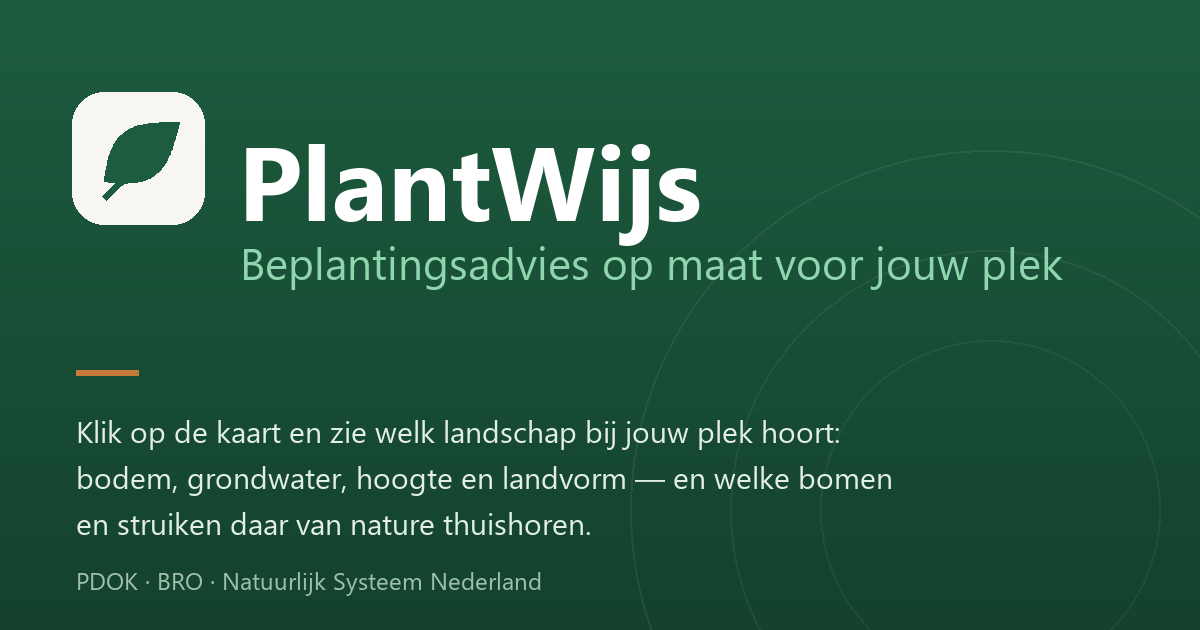
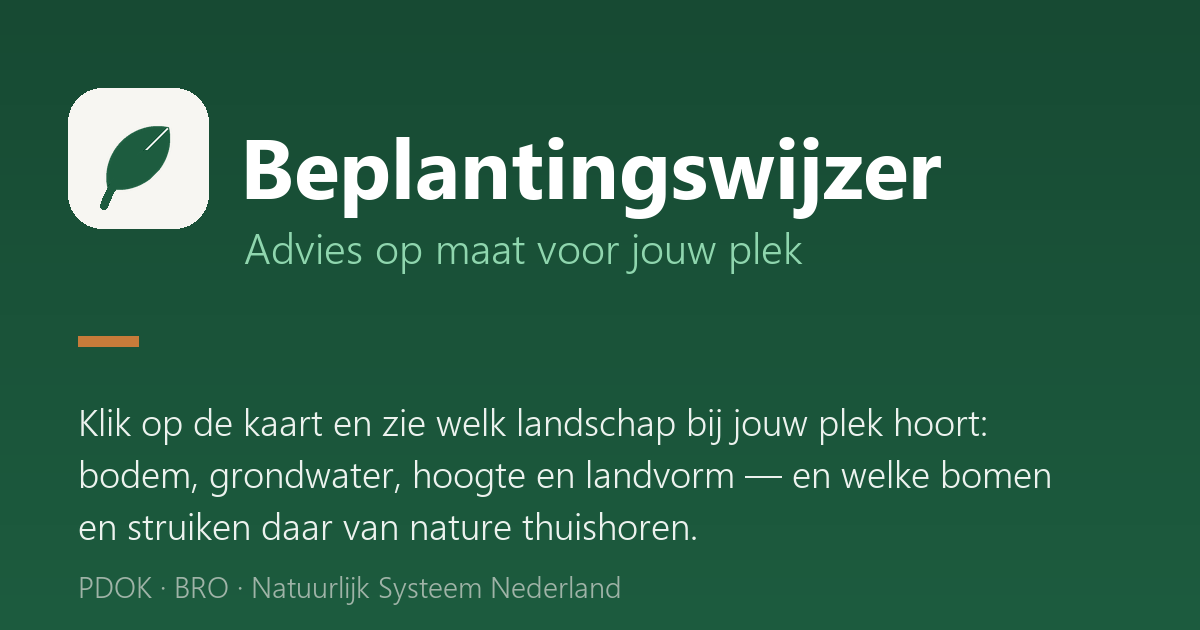
Livegang: og-image in Beplantingswijzer-huisstijl + stap-voor-stap livegang-checklist

diff --git a/docs/LIVEGANG.md b/docs/LIVEGANG.md
@@ -1,0 +1,59 @@
+# Beplantingswijzer — Livegang-checklist
+
+*Voor Rob. Stap voor stap, in volgorde. Fase 1–3 zetten de app live op beplantingswijzer.nl;
+fase 4 (de contentmachine met Netlify) kan later, wanneer je wilt. Tijden zijn schattingen.
+Overal waar "zeg het Claude" staat, neem ik het vanaf daar weer over.*
+
+## Wat al klaar staat (niets voor jou te doen)
+- Code, data en kennislaag: compleet, geverifieerd, 266 tests groen, alles op GitHub (branch `master`).
+- `render.yaml` (Render-blauwdruk), `runtime.txt`, deployhandleiding (docs/DEPLOY.md).
+- SEO-plan + keywordonderzoek, contentpipeline-fundering (map `site/`), AI-toegang (llms.txt, robots, sitemap).
+
+---
+
+## Fase 1 — De app live op Render (±30 min)
+
+1. **Account**: ga naar https://render.com → "Get Started" → kies **inloggen met GitHub** (dan ziet Render je repo meteen).
+2. **Blueprint**: Dashboard → knop **New +** → **Blueprint** → kies de repo **Rroobbbb/plantwijs** → Render leest `render.yaml` en toont de service **beplantingswijzer** → klik **Apply**.
+3. **Admin-sleutel**: Render vraagt om de omgevingsvariabele `PLANTWIJS_ADMIN_KEY` (staat op "sync: false"). Verzin een lang wachtwoord (bijv. 3 losse woorden + cijfers), vul het in en **bewaar het** (nodig om de dataset op afstand te verversen via `/api/admin/reload?key=...`).
+4. **Wachten**: de eerste build duurt 5–10 minuten. Daarna krijg je een adres als `https://beplantingswijzer.onrender.com`.
+5. **Testen**: open dat adres. Controleer: de kaart laadt → klik ergens → advies verschijnt. Let op: **de allereerste advies-klik kan 1–2 minuten duren** (de NSN-kaartindex wordt dan eenmalig opgebouwd). Daarna is het snel. Check ook `/api/health` (moet `"ok":true`, `"rows":1642`, `"versie":"4.0.0"` tonen).
+6. **Niet laten inslapen (aanrader)**: op het gratis plan valt de server na 15 min stilte in slaap én is de NSN-index bij elke wekdienst weg (eerste bezoeker wacht dan lang). Voor een echte lancering: service → **Settings → Instance Type → Starter** (± $7/maand). Je kunt gerust eerst gratis testen en dit later omzetten.
+
+## Fase 2 — beplantingswijzer.nl koppelen (±15 min + wachttijd)
+
+7. **In Render**: service → **Settings → Custom Domains → Add Custom Domain** → vul `beplantingswijzer.nl` in, en daarna nog een keer `www.beplantingswijzer.nl`. Render toont per naam welke DNS-records je moet zetten.
+8. **Bij je domeinregistrar** (waar je beplantingswijzer.nl hebt gekocht) → DNS-beheer:
+   - voor `beplantingswijzer.nl`: het **A-record** (of ALIAS/ANAME) dat Render toont;
+   - voor `www`: een **CNAME** naar `beplantingswijzer.onrender.com`.
+9. **Wachten** (meestal 15 min – 2 uur): Render regelt daarna automatisch het HTTPS-certificaat. Klaar als er in Render een groen vinkje bij het domein staat.
+10. **Eindcheck**: https://beplantingswijzer.nl werkt (kaart, advies, PDF-knop, donker thema); https://beplantingswijzer.nl/llms.txt toont de AI-uitleg; op je telefoon: open de site → "Zet op beginscherm" → het blaadjes-icoon verschijnt als app.
+
+## Fase 3 — Vindbaar worden (±20 min)
+
+11. **Google Search Console**: https://search.google.com/search-console → **Property toevoegen → Domein** → `beplantingswijzer.nl` → Google geeft een **TXT-record** → zet dat bij je registrar in de DNS → terug in Search Console op **Verifiëren** klikken (soms even wachten).
+12. **Sitemap aanmelden**: in Search Console → Sitemaps → `https://beplantingswijzer.nl/sitemap.xml` toevoegen.
+13. **Bing**: https://www.bing.com/webmasters → "Importeren uit Google Search Console" (twee klikken, neemt alles over).
+14. **Eerste links** (belangrijkste ranking-zetje, zie SEO_PLAN §8): mail/bel de partijen die jou kennen — gemeente-groenpagina, IVN/KNNV-afdeling, provinciale landschapsstichting, Steenbreek — met het verzoek om een link. De tool is voor hen een gratis aanvulling op hun eigen voorlichting.
+
+## Fase 4 — De contentmachine aan (later, wanneer jij wilt)
+
+15. **Netlify-account**: https://netlify.com → inloggen met GitHub → **Add new site → Import an existing project** → kies de repo. Netlify leest `netlify.toml` en bouwt de gidsen-site.
+16. **Secrets voor de automatische releases**: 
+    - Netlify → **User settings → Applications → New access token** → kopieer de token;
+    - Netlify → je site → **Site configuration** → kopieer de **Site ID**;
+    - GitHub → repo **Rroobbbb/plantwijs → Settings → Secrets and variables → Actions** → voeg toe: `NETLIFY_AUTH_TOKEN` en `NETLIFY_SITE_ID`.
+17. **Proxy invullen**: geef mij je Render-adres door ("zeg het Claude") — dan vul ik de placeholder in `site/_redirects` in, zodat Netlify de app doorstuurt naar Render.
+18. **DNS omzetten**: in Netlify → **Domain management** → `beplantingswijzer.nl` toevoegen → volg de DNS-instructies (vervangt de records uit stap 8; het domein wijst dan naar Netlify, die de app doorproxyt). Daarna in Render het custom domain weghalen.
+19. **Start de schrijfcadans**: zeg het Claude — dan starten de schrijf- en verificatie-agents met de eerste 12 artikelen uit SEO_PLAN §7, en publiceert de pipeline vanzelf elke 3 dagen wat klaarstaat.
+
+## Daarna — onderhoudsritme (weinig werk)
+
+- **Maandelijks** (5 min): Search Console openen — welke zoektermen groeien? Ik stuur bij in de contentplanning.
+- **Twee keer per jaar**: dataset verversen — zeg het Claude, dan draai ik scraper + verrijking + controle + deploy.
+- **Bij een nieuwe artikelronde**: alleen jij leest de geverifieerde concepten na (jouw vakblik blijft de laatste stap).
+
+## Als er iets misgaat
+- Render-build faalt → stuur mij de buildlog (Render → Events/Logs), ik fix het.
+- Site traag na stilte → dat is de gratis-plan-slaapstand (stap 6).
+- Dataset kapot/leeg → de app weigert bewust sets onder 500 rijen en valt terug op GitHub; `/api/admin/reload?key=JOUW_SLEUTEL` laadt opnieuw.
